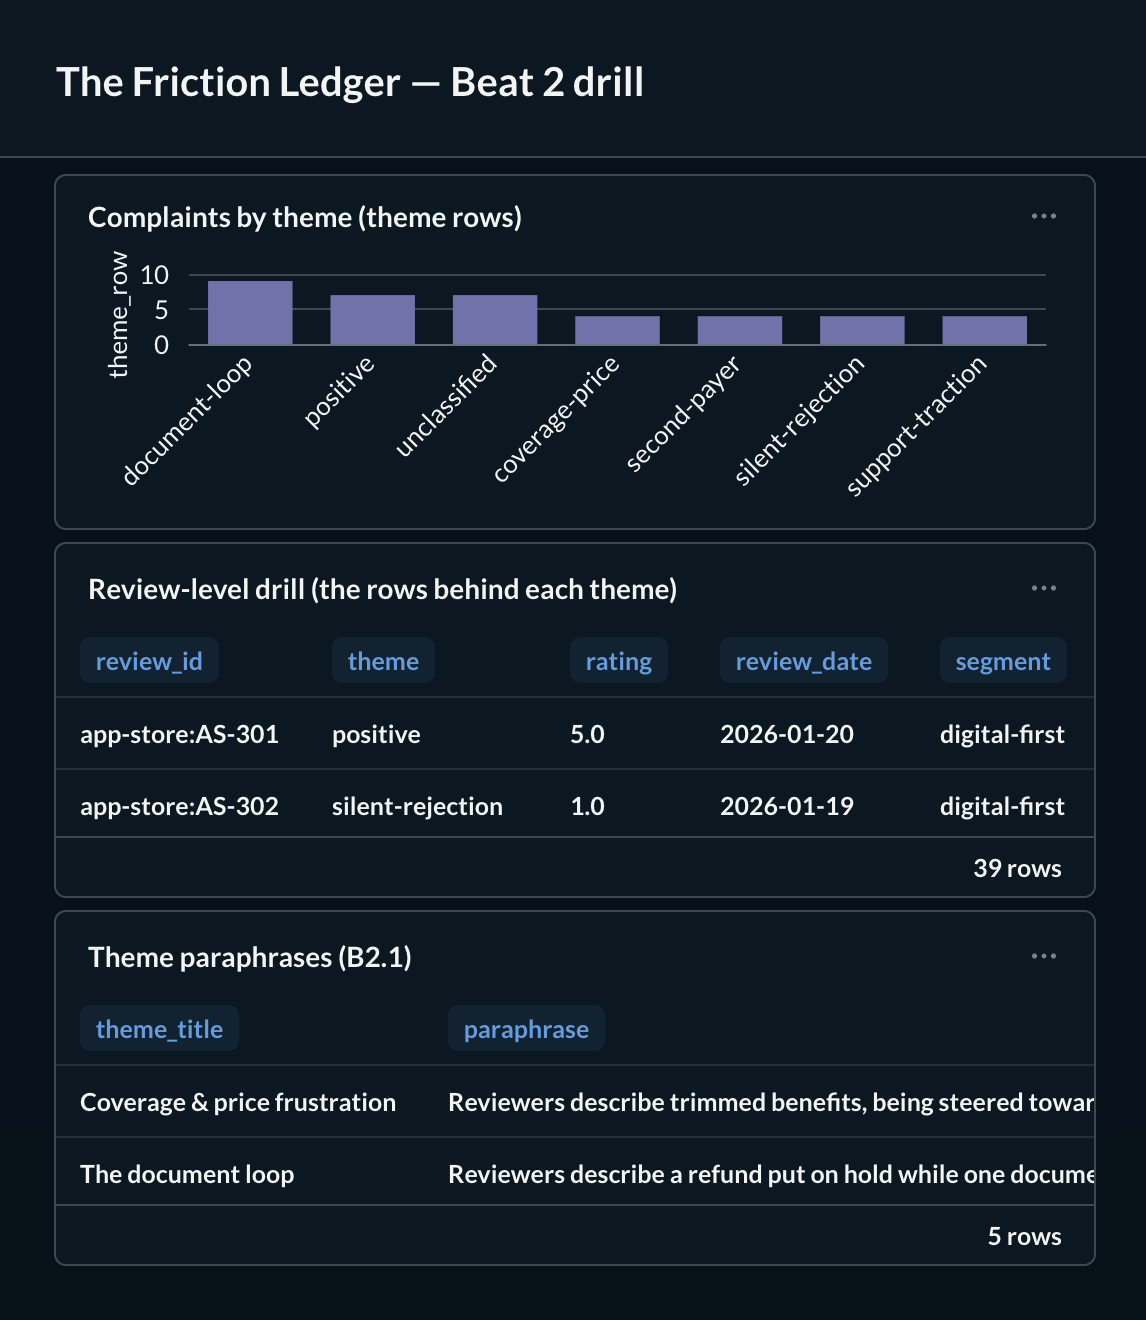
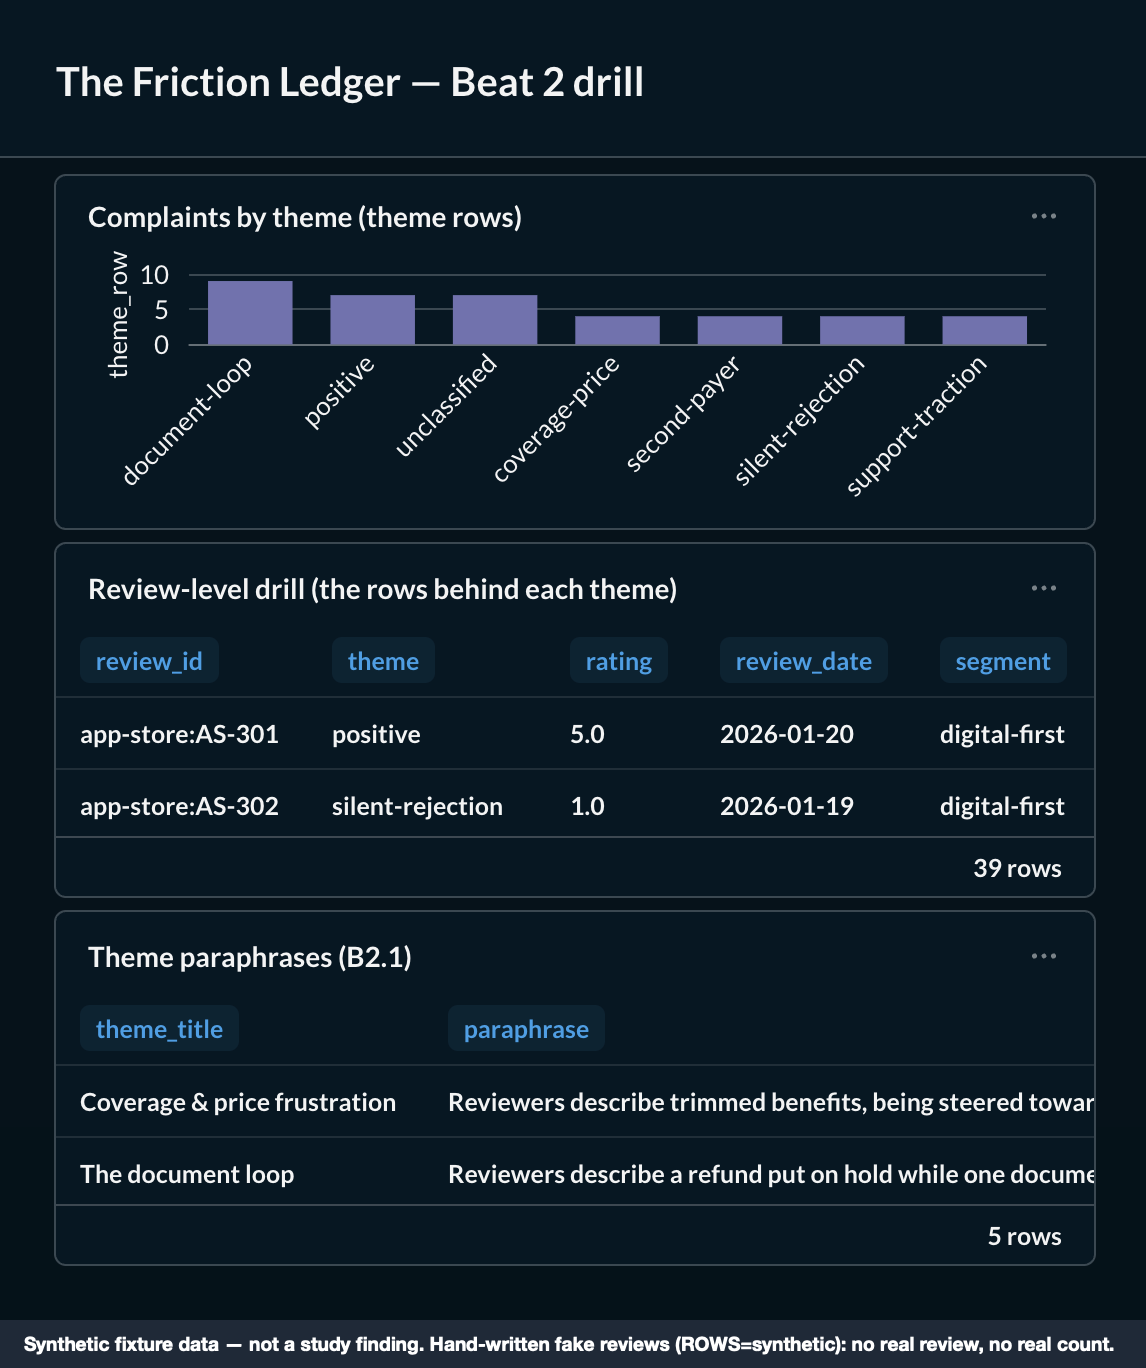
fix(9g): every committed screenshot carries the synthetic caption itself
Invariant restored (spec invariant 2 / Done-when 5): every committed
screenshot carries "synthetic fixture data — not a study finding", not
only the doc that links it. The caption is drawn as a band in each PNG's
pixels and written into an iTXt `Comment` chunk; the doc's alt text for
each image repeats it. The pinning test now walks the committed PNGs and
requires the phrase in each one's alt text and in its text channel (read
through the suite's one reader) — before, it checked the phrase once
anywhere in the doc, so an uncaptioned screenshot failed nothing.

Review round 2 (exit) #1, LESSONS class `unpinned`.

Claude-Session: https://claude.ai/code/session_01RdooFfBU8Frc9eW7EYYJdK

diff --git a/tests/test_review_drill.py b/tests/test_review_drill.py
@@ -24,6 +24,7 @@ from pipeline.build import build_post_classify_marts, rebuild, write_classified_
 from pipeline.warehouse import connect, database_for
 from study.metabase.export import ExportError, _cell, build_sqlite
 from tests import pins
+from tests.repo_text import repo_text
 
 pytestmark = pytest.mark.slow  # slow: a full rebuild, kept out of the fast hook
 
@@ -252,24 +253,35 @@ def test_sqlite_export_rating_is_exact_and_row_order_is_stable(tmp_path):
 
 
 _METABASE = Path(__file__).resolve().parent.parent / "study" / "metabase"
+_IMAGE = re.compile(r"!\[([^\]]*)\]\(([^)]+)\)")
 _LINK = re.compile(r"\[[^\]]+\]\(([^)]+)\)")
+_CAPTION = "synthetic fixture data — not a study finding"
 
 
 def test_demonstration_doc_and_synthetic_screenshots_exist_and_links_resolve():
-    """Done-when 5: the walkthrough is committed, captions the view as synthetic
-    fixture data (so no fake share reads as a finding), the screenshots directory
-    exists, and every relative link resolves. The PNGs themselves are the
-    developer's spike step (non-CI); this checks the committed structure."""
+    """Done-when 5 / invariant 2: the walkthrough is committed, it captions the
+    view as synthetic fixture data, every relative link resolves, and EVERY
+    committed screenshot carries the caption itself — in the doc's alt text and
+    in the PNG's own text channel (read through the suite's one reader), so a
+    screenshot that travels alone still says it is not a finding. The pixels'
+    caption band is the same sentence, confirmed by eye."""
     doc = _METABASE / "DEMONSTRATION.md"
     assert doc.is_file()
     text = doc.read_text(encoding="utf-8")
-    assert "synthetic fixture data — not a study finding" in text
-    assert (_METABASE / "screenshots").is_dir()
+    assert _CAPTION in text
+    shots = _METABASE / "screenshots"
+    assert shots.is_dir()
     for target in _LINK.findall(text):
         if target.startswith(("http://", "https://")):
             continue
         path = target.split("#", 1)[0]
         assert (doc.parent / path).exists(), target
+    linked = {Path(t).name: alt for alt, t in _IMAGE.findall(text)}
+    committed = sorted(p.name for p in shots.glob("*.png"))
+    assert committed and committed == sorted(linked), (committed, sorted(linked))
+    for name in committed:
+        assert _CAPTION in linked[name], name
+        assert _CAPTION in repo_text(shots / name), name
 
 
 def test_export_refuses_a_missing_mart_by_name(tmp_path):

diff --git a/study/metabase/DEMONSTRATION.md b/study/metabase/DEMONSTRATION.md
@@ -31,21 +31,22 @@ review can appear.
 
 Every review shown is hand-written (`ROWS=synthetic`, as the opening says); the
 drill carries only the non-text allowlist, so no review body or brand address can
-appear.
+appear. Each image carries the caption *synthetic fixture data — not a study
+finding* in its pixels and in its text metadata, so it says so wherever it travels.
 
 The dashboard: the theme-row bar, the review-level drill, and B2.1's paraphrases.
 
-![The Beat 2 drill dashboard over synthetic reviews](screenshots/01-dashboard.png)
+![The Beat 2 drill dashboard — synthetic fixture data — not a study finding](screenshots/01-dashboard.png)
 
 Drilling one theme (`document-loop`) to the review rows behind it — a stable id,
 theme, rating, the review's own date, segment and platform; never its words, never
 a per-review address.
 
-![The drill filtered to the document-loop theme](screenshots/02-theme-drill.png)
+![The drill filtered to the document-loop theme — synthetic fixture data — not a study finding](screenshots/02-theme-drill.png)
 
 B2.1's five theme paraphrases, each in our words with its public source.
 
-![The five theme paraphrases and their sources](screenshots/03-paraphrase.png)
+![The five theme paraphrases and their sources — synthetic fixture data — not a study finding](screenshots/03-paraphrase.png)
 
 ## Run it
 
